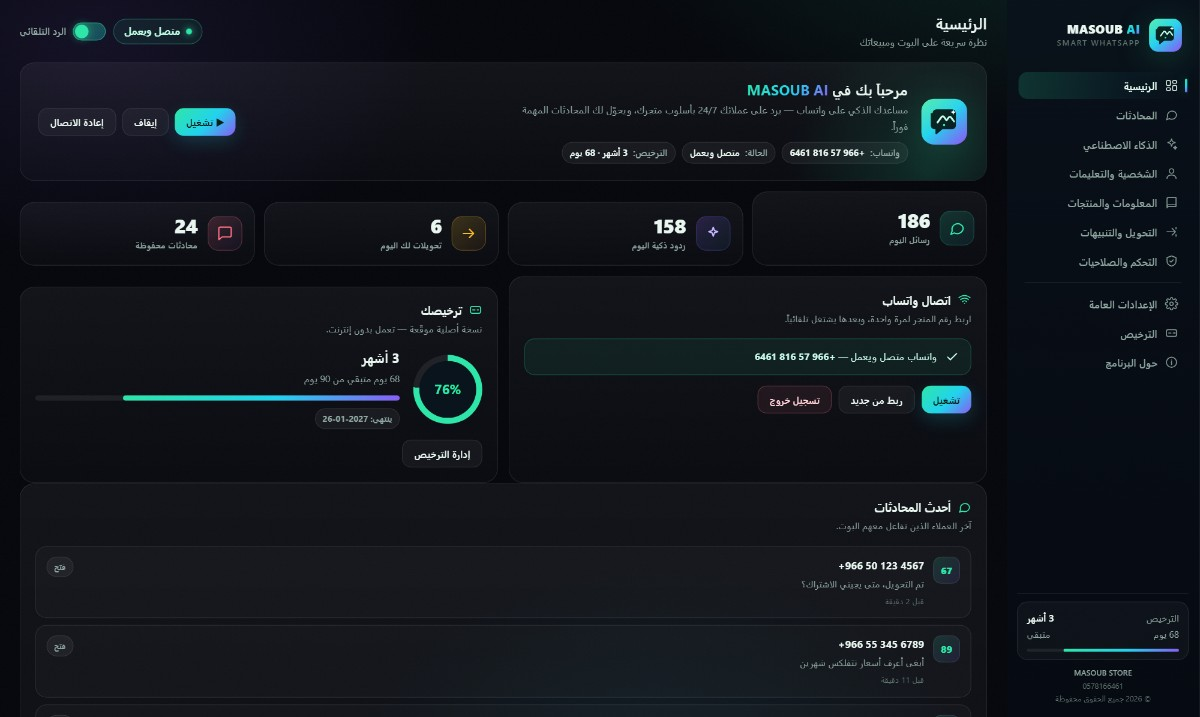
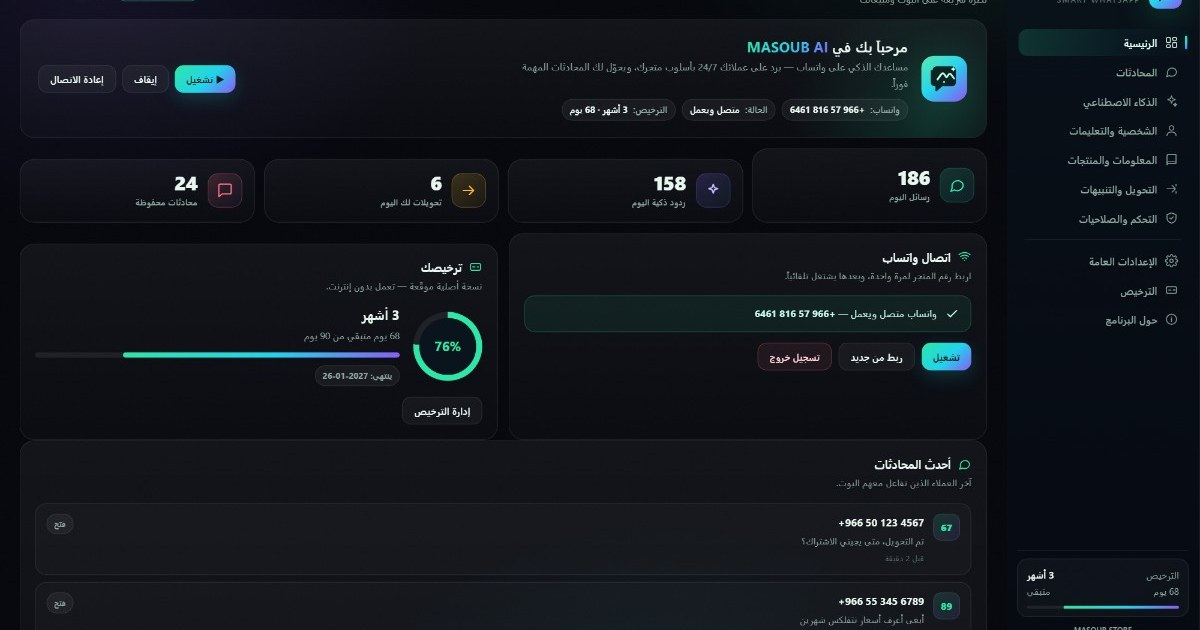
Add files via upload

diff --git a/index.html b/index.html
@@ -7,9 +7,22 @@
 <meta name="description" content="MASOUB AI يرد على عملائك في واتساب على مدار الساعة، يعرف منتجاتك وأسعارك وطرق الدفع، ويحوّل لك المحادثات المهمة. يعمل بدون سيرفرات، وبخصوصية كاملة على جهازك.">
 <meta name="theme-color" content="#05080e">
 <meta property="og:type" content="website">
+<meta property="og:site_name" content="MASOUB AI">
+<meta property="og:locale" content="ar_SA">
+<meta property="og:url" content="https://masoub-ai.kahl.workers.dev/">
 <meta property="og:title" content="MASOUB AI — مساعد واتساب الذكي لمتجرك">
 <meta property="og:description" content="رد فوري 24/7، معرفة كاملة بمنتجاتك، وتحويل ذكي لصاحب المتجر. بدون سيرفرات وبخصوصية كاملة على جهازك.">
-<meta property="og:image" content="assets/img/og.jpg">
+<meta property="og:image" content="https://masoub-ai.kahl.workers.dev/assets/img/og.jpg">
+<meta property="og:image:secure_url" content="https://masoub-ai.kahl.workers.dev/assets/img/og.jpg">
+<meta property="og:image:type" content="image/jpeg">
+<meta property="og:image:width" content="1200">
+<meta property="og:image:height" content="630">
+<meta property="og:image:alt" content="MASOUB AI — مساعد واتساب الذكي لمتجرك">
+<meta name="twitter:card" content="summary_large_image">
+<meta name="twitter:title" content="MASOUB AI — مساعد واتساب الذكي لمتجرك">
+<meta name="twitter:description" content="رد فوري 24/7، معرفة كاملة بمنتجاتك، وتحويل ذكي لصاحب المتجر. بدون سيرفرات وبخصوصية كاملة على جهازك.">
+<meta name="twitter:image" content="https://masoub-ai.kahl.workers.dev/assets/img/og.jpg">
+<link rel="canonical" href="https://masoub-ai.kahl.workers.dev/">
 <link rel="icon" href="assets/img/icon.png">
 <link rel="apple-touch-icon" href="assets/img/icon.png">
 <link rel="preload" href="assets/fonts/ipa-400-ar.woff2" as="font" type="font/woff2" crossorigin>
@@ -21,8 +34,8 @@
   "@type":"Organization",
   "name":"MASOUB STORE",
   "telephone":"+966578166461",
-  "url":"./",
-  "logo":"assets/img/icon.png"
+  "url":"https://masoub-ai.kahl.workers.dev/",
+  "logo":"https://masoub-ai.kahl.workers.dev/assets/img/icon.png"
 }
 </script>
 </head>
@@ -562,7 +575,7 @@
           <span><svg viewBox="0 0 24 24"><circle cx="12" cy="12" r="9"/><path d="M12 8v5l3 2"/></svg> الإصدار <span data-version>1.0.0</span></span>
         </div>
         <div style="display:flex;flex-wrap:wrap;gap:12px">
-          <a class="btn lg" href="downloads/MASOUB-AI-Setup-1.0.0.exe" download data-dl>
+          <a class="btn lg" href="https://github.com/kh8f/mmmas/releases/download/v1.0.0/MASOUB-AI-Setup-1.0.0.exe" download data-dl>
             <svg viewBox="0 0 24 24"><path d="M12 3v12"/><path d="M7 11l5 5 5-5"/><path d="M4 21h16"/></svg>
             تحميل المثبّت
           </a>

diff --git a/prices.html b/prices.html
@@ -7,9 +7,22 @@
 <meta name="description" content="باقات MASOUB AI: شهر بـ 49 ريال، 3 أشهر بـ 119 ريال، 6 أشهر بـ 199 ريال، وسنة كاملة بـ 349 ريال، مع تجربة مجانية. كل الباقات تشمل كل الميزات والتفعيل الفوري عبر واتساب.">
 <meta name="theme-color" content="#05080e">
 <meta property="og:type" content="website">
+<meta property="og:site_name" content="MASOUB AI">
+<meta property="og:locale" content="ar_SA">
+<meta property="og:url" content="https://masoub-ai.kahl.workers.dev/prices.html">
 <meta property="og:title" content="الأسعار — MASOUB AI">
 <meta property="og:description" content="باقات واضحة من 49 ريال — تفعيل فوري عبر واتساب وتجربة مجانية.">
-<meta property="og:image" content="assets/img/og.jpg">
+<meta property="og:image" content="https://masoub-ai.kahl.workers.dev/assets/img/og.jpg">
+<meta property="og:image:secure_url" content="https://masoub-ai.kahl.workers.dev/assets/img/og.jpg">
+<meta property="og:image:type" content="image/jpeg">
+<meta property="og:image:width" content="1200">
+<meta property="og:image:height" content="630">
+<meta property="og:image:alt" content="باقات MASOUB AI">
+<meta name="twitter:card" content="summary_large_image">
+<meta name="twitter:title" content="الأسعار — MASOUB AI">
+<meta name="twitter:description" content="باقات واضحة من 49 ريال — تفعيل فوري عبر واتساب وتجربة مجانية.">
+<meta name="twitter:image" content="https://masoub-ai.kahl.workers.dev/assets/img/og.jpg">
+<link rel="canonical" href="https://masoub-ai.kahl.workers.dev/prices.html">
 <link rel="icon" href="assets/img/icon.png">
 <link rel="apple-touch-icon" href="assets/img/icon.png">
 <link rel="preload" href="assets/fonts/ipa-400-ar.woff2" as="font" type="font/woff2" crossorigin>

diff --git a/assets/js/dashboard.js b/assets/js/dashboard.js
@@ -17,7 +17,7 @@ const GATE = {
 const RL = { maxFails: 5, windowMs: 15 * 60 * 1000, lockMs: 10 * 60 * 1000 };
 
 const S = window.MSBSettings || {
-  get: () => ({ prices: { m1: 49, m3: 119, m6: 199, y1: 349 }, trialDays: 1, phone: '0578166461', whatsapp: '966578166461', downloadUrl: 'downloads/MASOUB-AI-Setup-1.0.0.exe' }),
+  get: () => ({ prices: { m1: 49, m3: 119, m6: 199, y1: 349 }, trialDays: 1, phone: '0578166461', whatsapp: '966578166461', downloadUrl: 'https://github.com/kh8f/mmmas/releases/download/v1.0.0/MASOUB-AI-Setup-1.0.0.exe' }),
   save() {},
   reset() {},
   apply() {},

diff --git a/assets/js/site-config.js b/assets/js/site-config.js
@@ -17,7 +17,7 @@ window.MSB_CONFIG = {
   trialDays: 1,                                   // مدة التجربة المجانية بالأيام
   phone: '0578166461',                            // الرقم الظاهر في الموقع
   whatsapp: '966578166461',                       // رقم واتساب بصيغة دولية بدون +
-  downloadUrl: 'downloads/MASOUB-AI-Setup-1.0.0.exe',
+  downloadUrl: 'https://github.com/kh8f/mmmas/releases/download/v1.0.0/MASOUB-AI-Setup-1.0.0.exe',
   appVersion: '1.0.0',
   appSize: '108 ميجابايت',
 };

diff --git a/dashboard.html b/dashboard.html
@@ -148,7 +148,7 @@
 
       <label class="field">
         <span>رابط ملف التحميل (زر «تحميل المثبّت»)</span>
-        <input id="cfg-dl" type="text" dir="ltr" style="text-align:left" placeholder="downloads/MASOUB-AI-Setup-1.0.0.exe">
+        <input id="cfg-dl" type="text" dir="ltr" style="text-align:left" placeholder="https://github.com/kh8f/mmmas/releases/download/v1.0.0/MASOUB-AI-Setup-1.0.0.exe">
       </label>
 
       <div class="set-actions">

diff --git a/assets/js/settings.js b/assets/js/settings.js
@@ -13,7 +13,7 @@
     trialDays: 1,
     phone: '0578166461',
     whatsapp: '966578166461',
-    downloadUrl: 'downloads/MASOUB-AI-Setup-1.0.0.exe',
+    downloadUrl: 'https://github.com/kh8f/mmmas/releases/download/v1.0.0/MASOUB-AI-Setup-1.0.0.exe',
     appVersion: '1.0.0',
     appSize: '108 ميجابايت',
   }, window.MSB_CONFIG || {});
